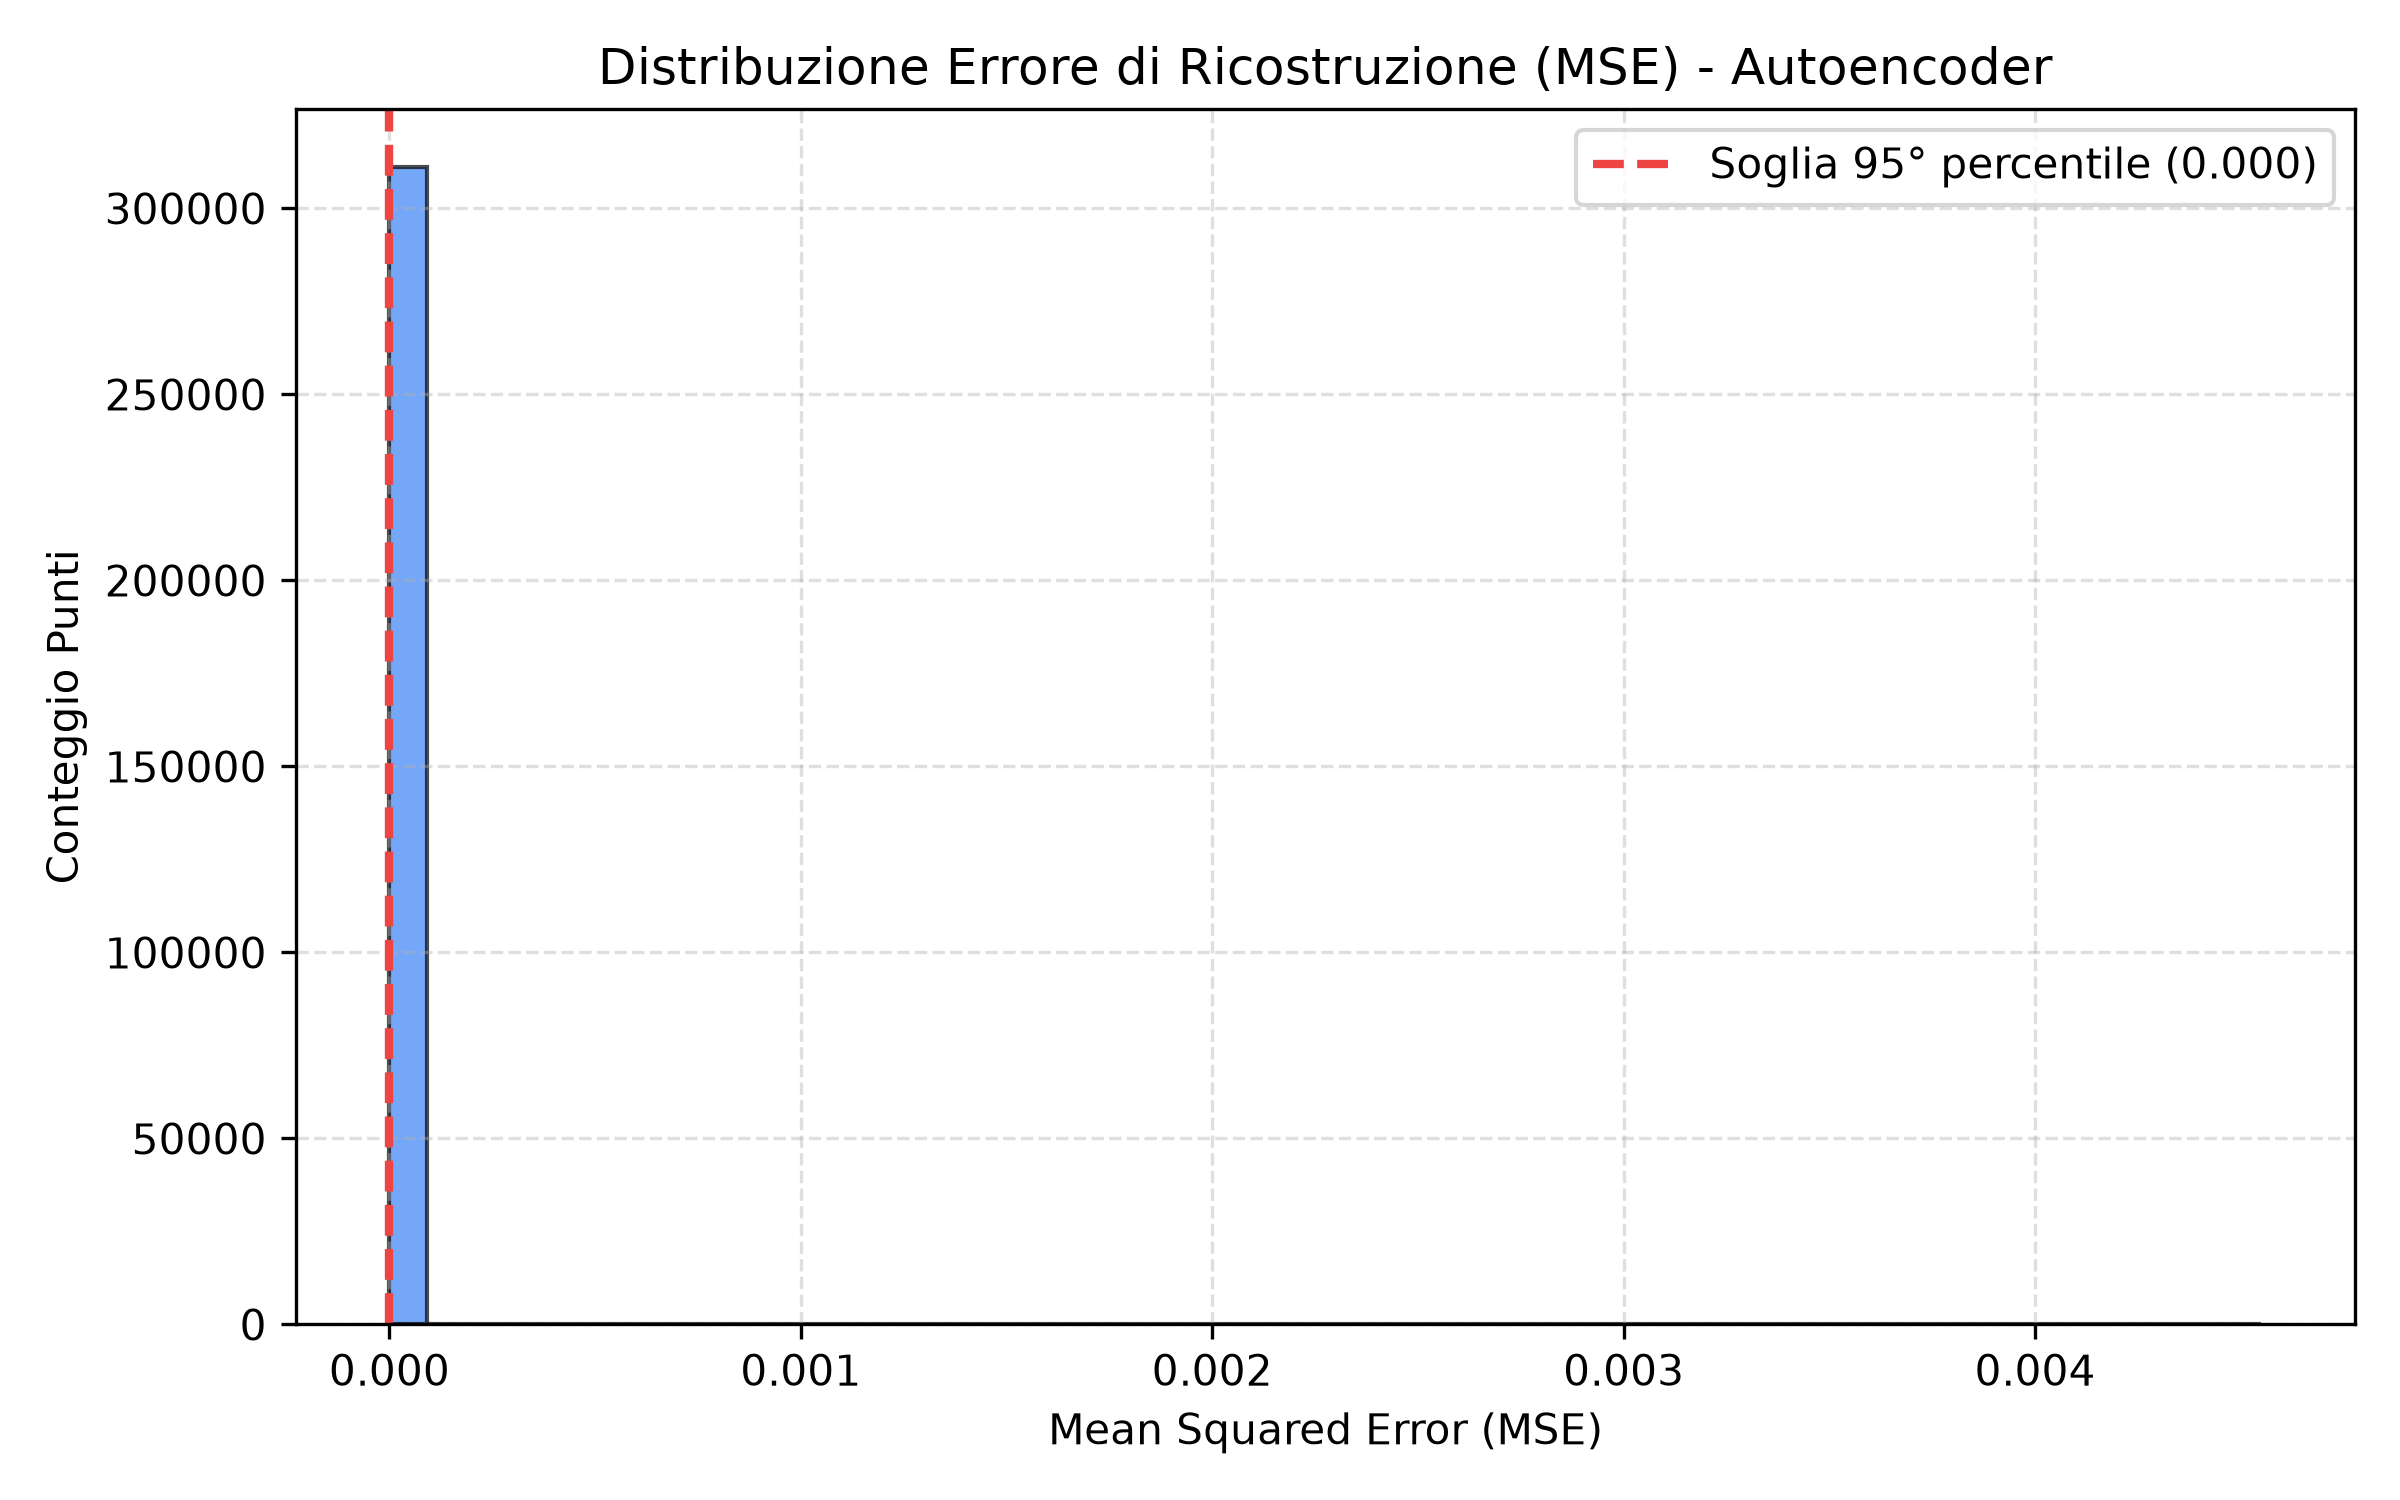
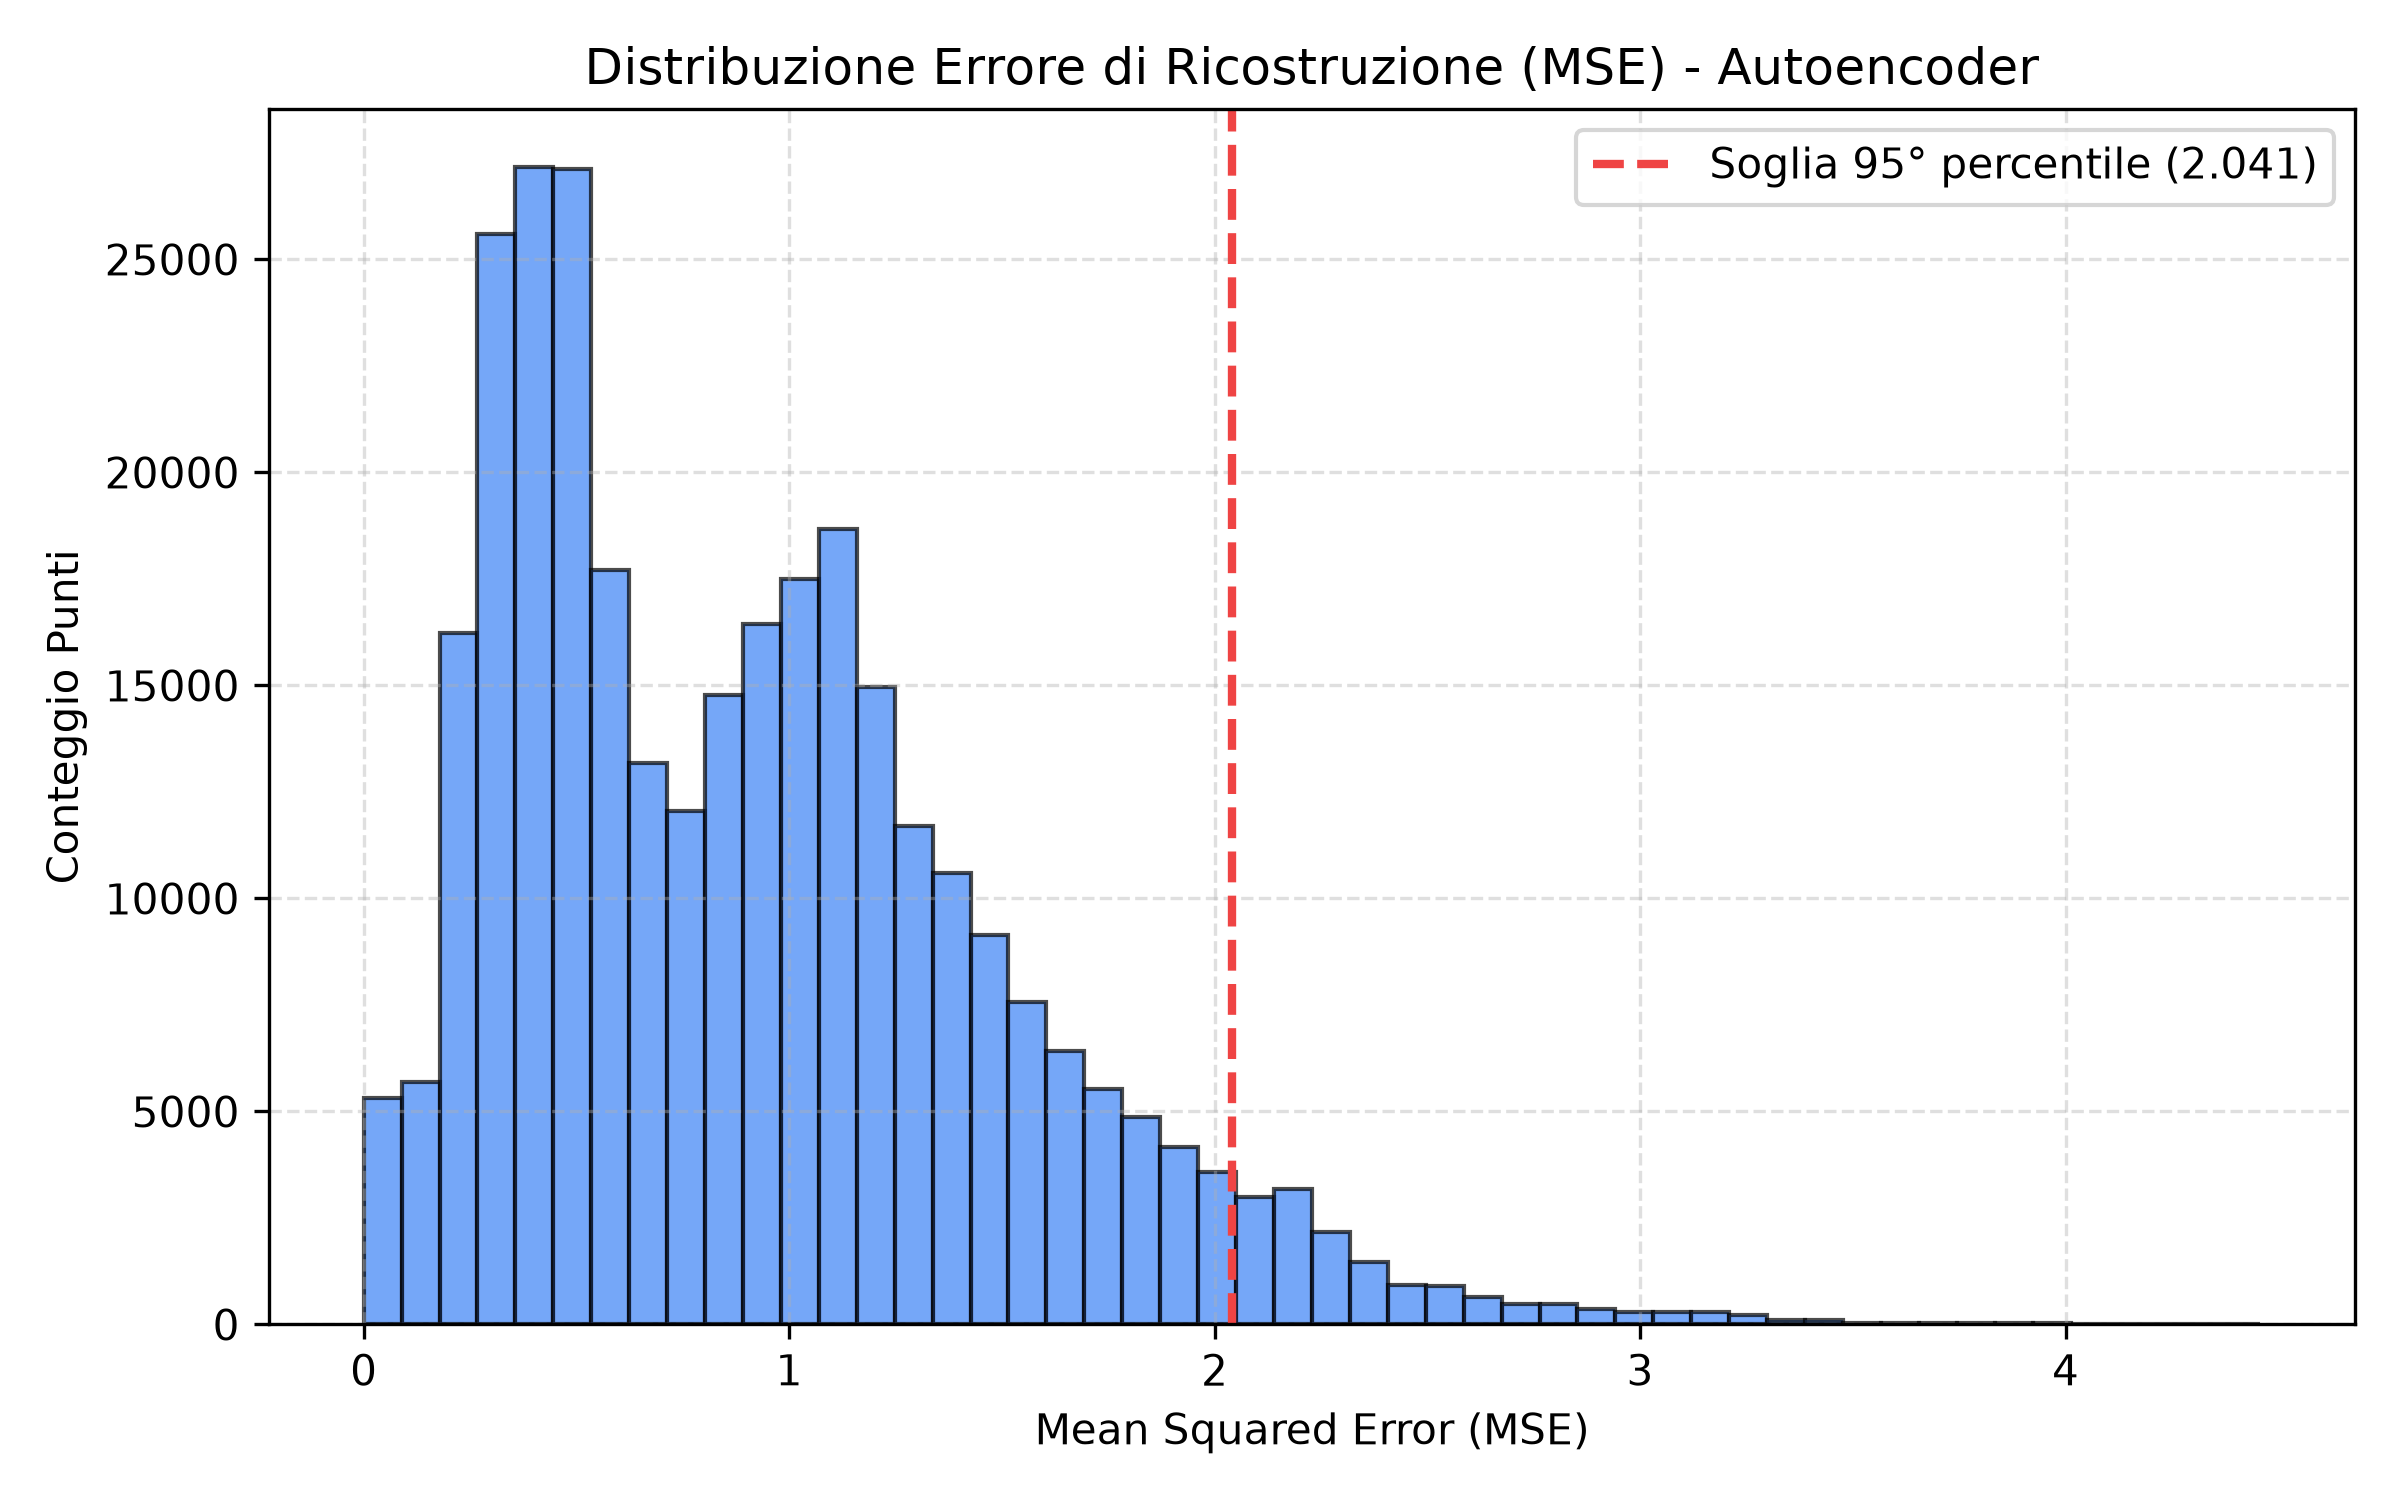
modiche varie

diff --git a/dashboard/js/app.js b/dashboard/js/app.js
@@ -156,6 +156,8 @@ async function runDetection() {
   btn.textContent = '⏳ Analisi in corso...';
 
   try {
+    document.getElementById('windowSelect').value = "";
+    await loadSeriesData();  // ricarica currentSeriesData a granularità 1s
     const res = await fetch(`${API_BASE}/cases/${currentCaseId}/detect`, { method: 'POST' });
     if (!res.ok) throw new Error('Errore durante la detection');
     lastDetectionResult = await res.json();

diff --git a/src/gold/load_mongo.py b/src/gold/load_mongo.py
@@ -156,22 +156,37 @@ def build_registry_doc(case_id, record_count):
 
 
 def load_case_to_mongo(client, db, df, case_id, clinical_info):
-    """Effettua l'inserimento atomico (transazionale) delle serie temporali e la registrazione nel catalog `registry`."""
+    """Inserisce le serie temporali e registra il caso nel catalog `registry`.
+
+    NOTA (limite documentato di MongoDB): le Time Series Collection NON supportano
+    insert all'interno di una transazione multi-documento (errore 263,
+    OperationNotSupportedInTransaction). Non è quindi possibile ottenere qui una
+    vera atomicità ACID come nelle collection normali.
+
+    Strategia adottata — compensazione manuale invece di transazione reale:
+    1. Inserisce prima i punti in `vital_signals` (fuori transazione).
+    2. Solo se l'inserimento ha successo, registra il caso in `registry`.
+    3. Se il passo 1 fallisce, `registry` non viene toccato: niente casi
+       "fantasma" registrati senza dati corrispondenti.
+    """
     records = build_records(df, case_id, clinical_info)
     if not records:
         return 0
     registry_doc = build_registry_doc(case_id, len(records))
-    try:
-        # Avvia una sessione e una transazione atomica ACID
-        with client.start_session() as session:
-            with session.start_transaction():
-                db['vital_signals'].insert_many(records, session=session)
-                db['registry'].insert_one(registry_doc, session=session)
-    except PyMongoError as e:
-        print(f"❌ Errore durante l'inserimento atomico su MongoDB per il caso #{case_id}: {e}")
-        raise
-    return len(records)
 
+    try:
+        db['vital_signals'].insert_many(records)
+    except PyMongoError as e:
+        print(f"❌ Errore durante l'inserimento in vital_signals per il caso #{case_id}: {e}")
+        raise
+
+    try:
+        db['registry'].insert_one(registry_doc)
+    except PyMongoError as e:
+        print(f"⚠ Punti inseriti in vital_signals per il caso #{case_id}, ma registrazione in 'registry' fallita: {e}")
+        raise
+
+    return len(records)
 
 def process_silver_to_gold(silver_dir, bronze_dir=None):
     """Itera su tutti i file Parquet del layer Silver e li inserisce in MongoDB Gold."""

diff --git a/src/detection/detector.py b/src/detection/detector.py
@@ -205,23 +205,34 @@ class LSTMAutoencoderDetector:
         optimizer = torch.optim.Adam(self.model.parameters(), lr=1e-3)
         loss_fn = nn.MSELoss()
         X_tensor = torch.tensor(windows, dtype=torch.float32)
-        # Training
+        dataset = torch.utils.data.TensorDataset(X_tensor)
+        dataloader = torch.utils.data.DataLoader(dataset, batch_size=2048, shuffle=True)
+
+        # Training a mini-batch (efficienza RAM e prevenzione OOM)
         self.model.train()
         for epoch in range(self.epochs):
-            optimizer.zero_grad()
-            output = self.model(X_tensor)
-            loss = loss_fn(output, X_tensor)
-            loss.backward()
-            optimizer.step()
-        # Calcolo errore di ricostruzione per ogni finestra
+            for (batch_x,) in dataloader:
+                optimizer.zero_grad()
+                output = self.model(batch_x)
+                loss = loss_fn(output, batch_x)
+                loss.backward()
+                optimizer.step()
+
+        # Calcolo errore di ricostruzione per ogni finestra tramite eval_loader
         self.model.eval()
+        eval_loader = torch.utils.data.DataLoader(dataset, batch_size=4096, shuffle=False)
+        mse_list = []
         with torch.no_grad():
-            reconstructed = self.model(X_tensor).numpy()
-        mse_per_window = np.mean((windows - reconstructed) ** 2, axis=(1, 2))
+            for (batch_x,) in eval_loader:
+                reconstructed = self.model(batch_x)
+                batch_mse = torch.mean((batch_x - reconstructed) ** 2, dim=(1, 2))
+                mse_list.append(batch_mse.numpy())
+        mse_per_window = np.concatenate(mse_list)
+
         # Mappa l'errore da finestre → punti temporali originali
         mse_per_point = np.full(len(df), 0.0)
         for i, err in enumerate(mse_per_window):
-            mse_per_point[i + self.window_size] = max(mse_per_point[i + self.window_size], err)
+            mse_per_point[i + self.window_size] = max(mse_per_point[i + self.window_size], float(err))
         threshold = np.percentile(mse_per_window, self.percentile)
         self.threshold_ = threshold
         self.reconstruction_error_ = mse_per_point

diff --git a/src/config.py b/src/config.py
@@ -33,7 +33,7 @@ VITAL_TRACKS = [
 
 # === Parametri pipeline ===
 SAMPLING_INTERVAL = 1.0  # Intervallo di campionamento in secondi
-MAX_CASES = 5       # Numero di casi da scaricare per la sperimentazione (50 casi)
+MAX_CASES = 50      # Numero di casi da scaricare per la sperimentazione (50 casi)
 
 # Crea le directory dati se non esistono
 for d in [BRONZE_DIR, SILVER_DIR, RAW_DIR]:
